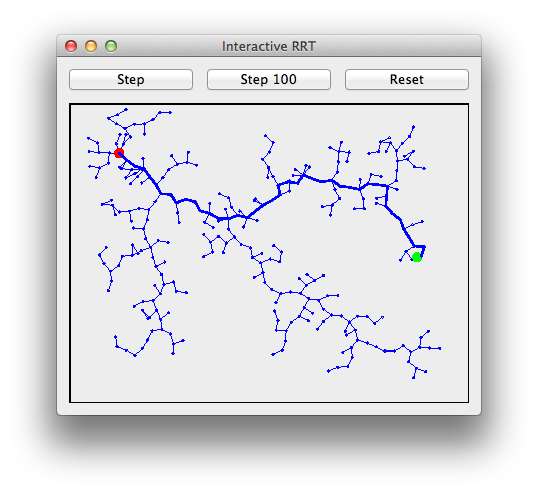
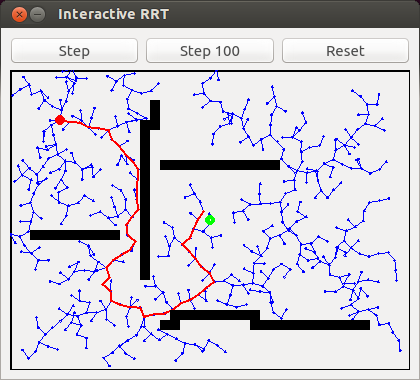
added obstacles to rrt-viewer!
Click or drag to make and destroy obstacles

* updated screenshot for README

diff --git a/src/rrt-viewer/RRTWidget.cpp b/src/rrt-viewer/RRTWidget.cpp
@@ -35,6 +35,17 @@ void RRTWidget::setupTree(Vector2f start) {
 		return magnitude(delta) < 12;
 	};
 
+	//	note: the obstacle detection here isn't perfect, but it's good enough
+	_tree->transitionValidator = [&](const Vector2f &from, const Vector2f &to) {
+		int x, y; getIntCoordsForPt<Vector2f>(from, x, y);
+		if (_blocked[x][y]) return false;
+
+		getIntCoordsForPt<Vector2f>(to, x, y);
+		if (_blocked[x][y]) return false;
+
+		return true;
+	};
+
 	_tree->setup(start);
 }
 
@@ -114,6 +125,17 @@ void RRTWidget::paintEvent(QPaintEvent *p) {
 			parent = parent->parent();
 		}
 	}
+
+	//	draw obstacles
+	int rectW = rect().width() / GridWidth, rectH = rect().height() / GridHeight;
+	painter.setPen(QPen(Qt::black, 2));
+	for (int x = 0; x < GridWidth; x++) {
+		for (int y = 0; y < GridHeight; y++) {
+			if (_blocked[x][y]) {
+				painter.fillRect(x * rectW, y * rectH, rectW, rectH, Qt::SolidPattern);
+			}
+		}
+	}
 }
 
 
@@ -130,6 +152,14 @@ void RRTWidget::mousePressEvent(QMouseEvent *event) {
 		_draggingStart = true;
 	} else if (mouseInGrabbingRange(event, _goalState)) {
 		_draggingGoal = true;
+	} else {
+		_editingObstacles = true;
+		int x, y; getIntCoordsForPt<QPointF>(event->pos(), x, y);
+		_erasingObstacles = _blocked[x][y];
+
+		//	toggle the blocked state of clicked square
+		_blocked[x][y] = !_erasingObstacles;
+		update();
 	}
 }
 
@@ -144,10 +174,15 @@ void RRTWidget::mouseMoveEvent(QMouseEvent *event) {
 		//	set the new goal point
 		_goalState = Vector2f(point);
 		update();
+	} else if (_editingObstacles) {
+		int x, y; getIntCoordsForPt<QPointF>(event->pos(), x, y);
+		_blocked[x][y] = !_erasingObstacles;
+		update();
 	}
 }
 
 void RRTWidget::mouseReleaseEvent(QMouseEvent *event) {
 	_draggingGoal = false;
 	_draggingStart = false;
+	_editingObstacles = false;
 }

diff --git a/src/rrt-viewer/RRTWidget.hpp b/src/rrt-viewer/RRTWidget.hpp
@@ -31,8 +31,23 @@ protected:
 
 	static bool mouseInGrabbingRange(QMouseEvent *event, const Eigen::Vector2f &pt);
 
+	template<typename P>
+	void getIntCoordsForPt(P pt, int &xOut, int &yOut) {
+		xOut = pt.x() * GridWidth / rect().width();
+		yOut = pt.y() * GridHeight / rect().height();
+	}
+
 private:
 	RRT::Tree<Eigen::Vector2f> *_tree;
 	Eigen::Vector2f _goalState;
 	bool _draggingStart, _draggingGoal;
+
+	///	the viewing area is divided up into rectangles
+	///	@_blocked tracks whether or not they are obstacles.
+	static const int GridWidth = 40, GridHeight = 30;
+	bool _blocked[GridWidth][GridHeight];
+
+	//	if you click down on an obstacle, you enter erase mode
+	//	if you click down where there's no obstacle, you enter draw mode
+	bool _editingObstacles, _erasingObstacles;
 };
